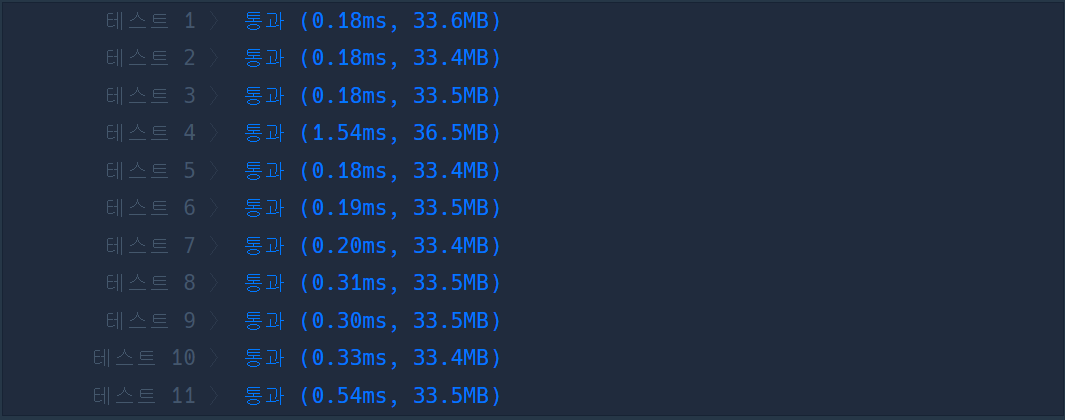
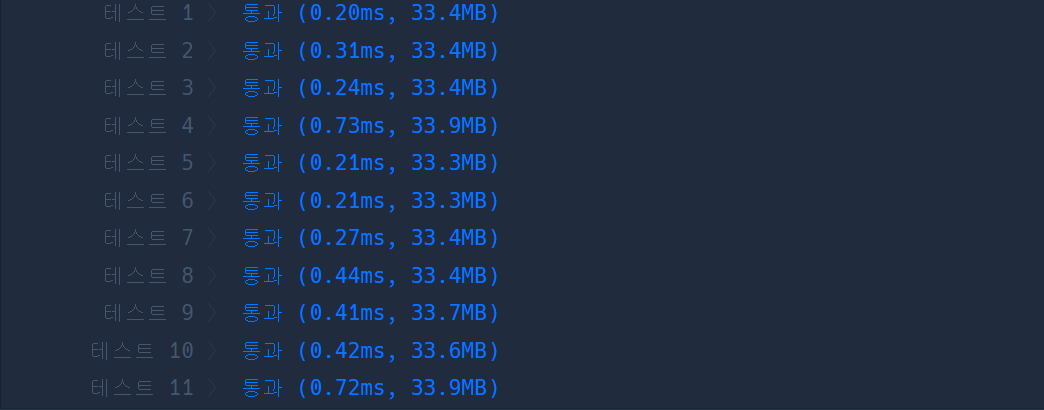
포스트 추가

diff --git a/_posts/2023/09/16/2023-09-16-algorithm-69.md b/_posts/2023/09/16/2023-09-16-algorithm-69.md
@@ -52,25 +52,23 @@ toc_label: '목차'
 ## 풀이
 ```javascript
 function solution(board, moves) {
-    var answer = 0;
-    let result = [];
-    moves.map((d,i)=> {
-        for (let j = 0; j < board.length; j++) {
-            if (board[j][d-1] !== 0) {
-                if (result[result.length-1] === board[j][d-1]){
-                    result.pop();
-                    answer += 2;
-                    board[j][d-1] = 0
-                    return;
-                } else {
-                    result.push(board[j][d-1]);
-                    board[j][d-1] = 0
-                    return;    
-                }
-
-            }
+    board = board
+        .reduce((acc, cur) => cur.map((_, i) => [...(acc[i] || []), cur[i]]), [])
+        .map(row => row.reverse().filter(el => el));
+    
+    let answer = 0;
+    const basket = [];
+    for (const m of moves) {
+        if (!board[m-1].length) continue;
+        
+        const doll = board[m-1].pop();
+        if (doll === basket[basket.length-1]) {
+            basket.pop();
+            answer += 2;
+        } else {
+            basket.push(doll);   
         }
-    })
+    }
     return answer;
 }
 ```
